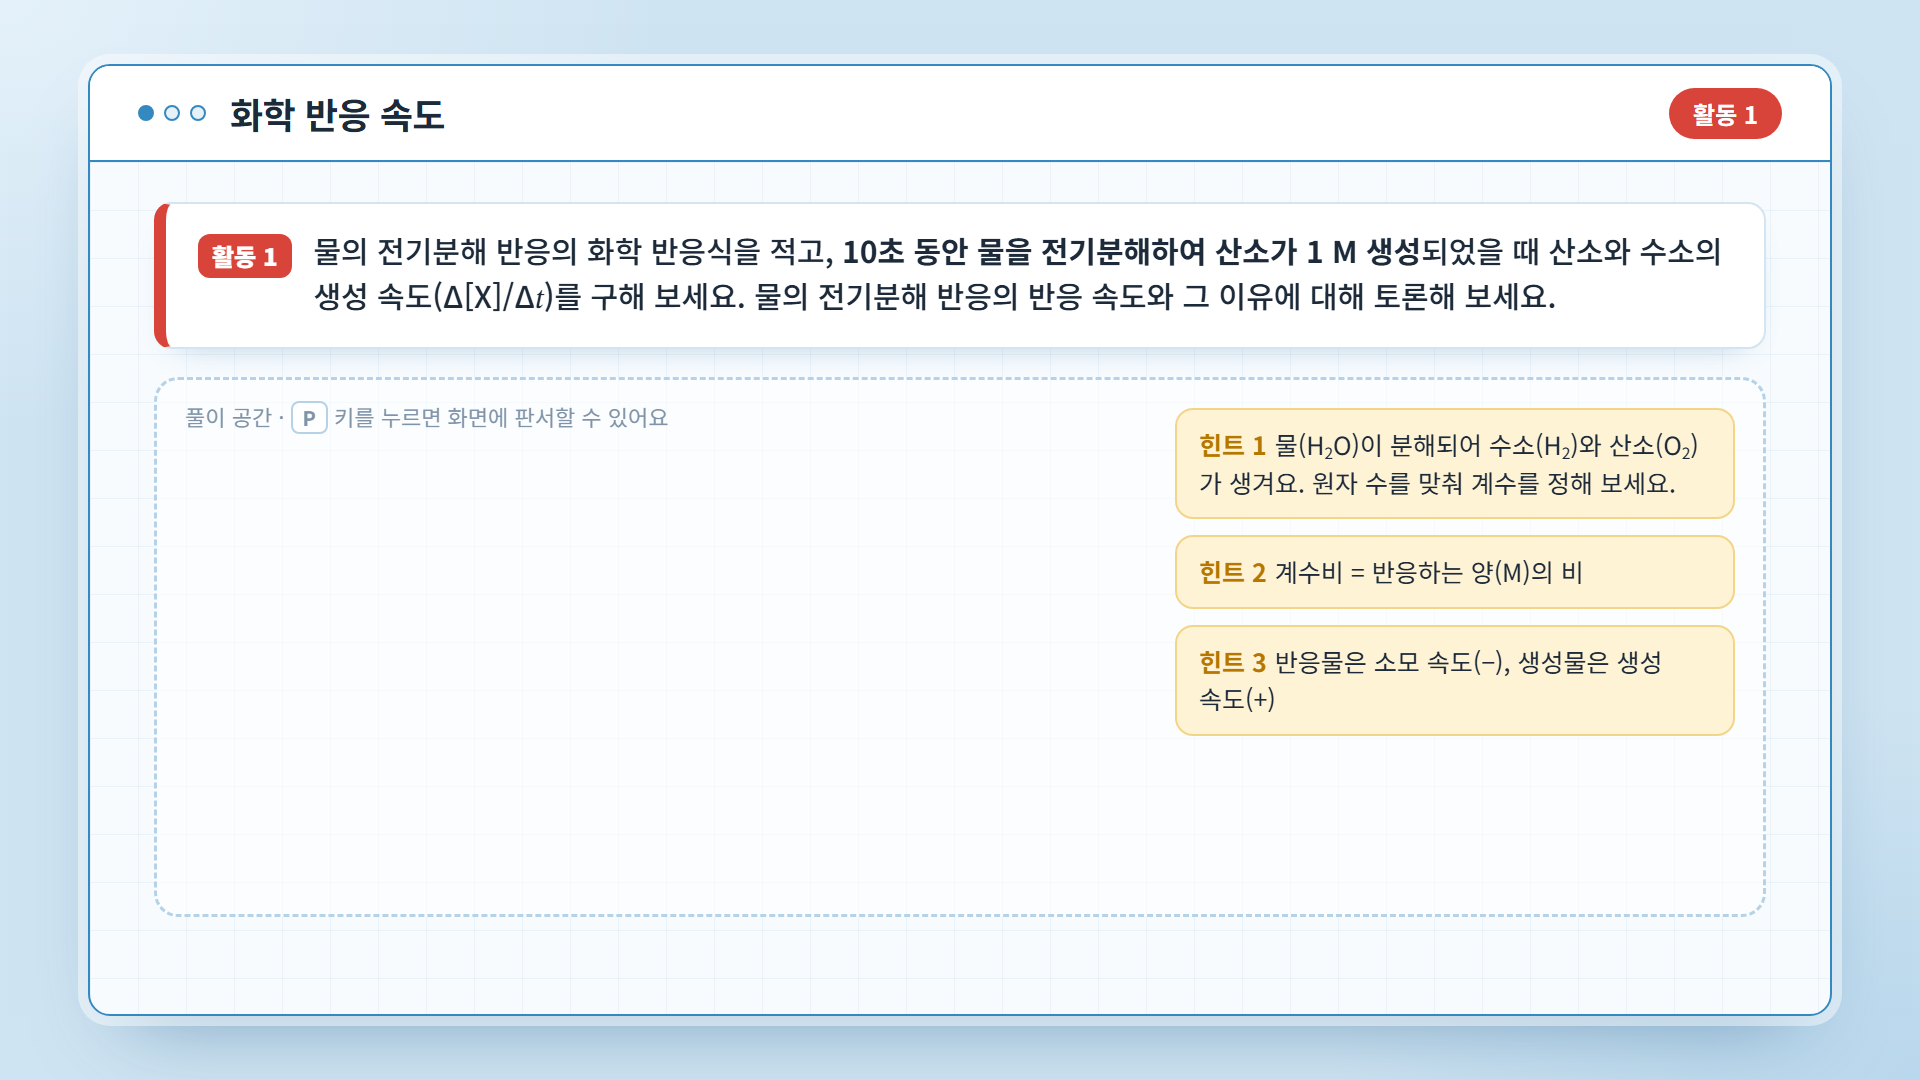
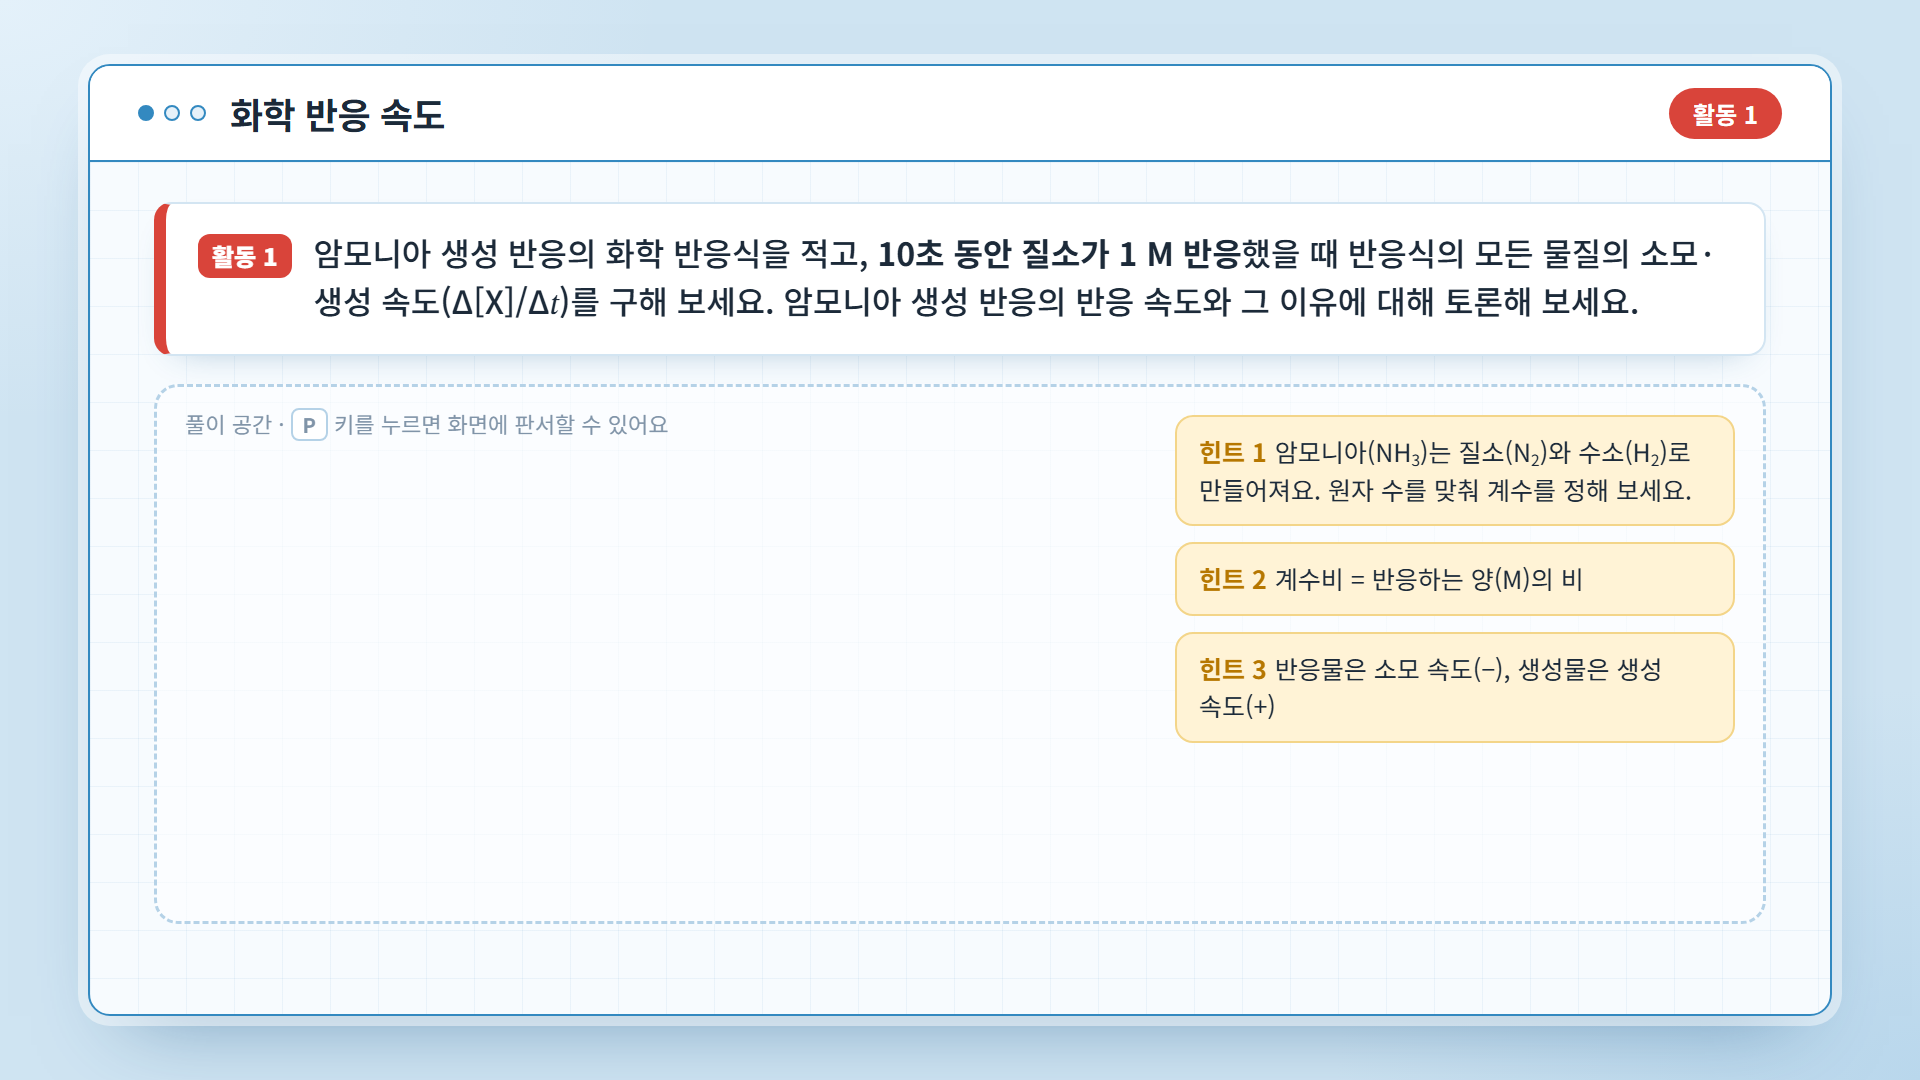
reaction-rate: 활동 1을 암모니아 생성 반응으로 복원 (토론 답 없이 v = 0.1 유지)

Changed region(s): [[0.0938, 0.2139, 0.9062, 0.7028], [0.0938, 0.825, 0.9062, 0.8556]]

diff --git a/reaction-rate-lesson/index.html b/reaction-rate-lesson/index.html
@@ -203,7 +203,6 @@
   .rrow .mini { font-size: 22px; font-weight: 700; text-align: center; border-radius: 999px; padding: 4px 0; background: #fff; }
   .ctlcard { padding: 22px 28px; display: flex; flex-direction: column; gap: 14px; }
   #act1-a .nh3-grid { margin-top: 14px; }
-  #act1-a .eqcard { font-size: 60px; padding: 20px 6px; letter-spacing: 0; }
   #act1-a .ctlcard { padding: 16px 28px; gap: 8px; }
 
   /* ---------- slide 7 ---------- */
@@ -505,11 +504,11 @@
   <div class="panel">
     <div class="head"><span class="dots"><i></i><i></i><i></i></span><h2>화학 반응 속도</h2><span class="tag act">활동 1</span></div>
     <div class="body">
-      <div class="q" style="font-size:30px"><span class="qbadge">활동 1</span><p>물의 전기분해 반응의 화학 반응식을 적고, <b>10초 동안 물을 전기분해하여 산소가 1 M 생성</b>되었을 때 산소와 수소의 생성 속도(Δ[X]/Δ<i class="m">t</i>)를 구해 보세요. 물의 전기분해 반응의 반응 속도와 그 이유에 대해 토론해 보세요.</p></div>
+      <div class="q"><span class="qbadge">활동 1</span><p>암모니아 생성 반응의 화학 반응식을 적고, <b>10초 동안 질소가 1 M 반응</b>했을 때 반응식의 모든 물질의 소모·생성 속도(Δ[X]/Δ<i class="m">t</i>)를 구해 보세요. 암모니아 생성 반응의 반응 속도와 그 이유에 대해 토론해 보세요.</p></div>
       <div class="work" style="height:540px">
         <span class="work-label">풀이 공간 · <kbd>P</kbd> 키를 누르면 화면에 판서할 수 있어요</span>
         <div class="hints">
-          <div class="hint" data-step="1 rise"><b>힌트 1</b>물(H<sub>2</sub>O)이 분해되어 수소(H<sub>2</sub>)와 산소(O<sub>2</sub>)가 생겨요. 원자 수를 맞춰 계수를 정해 보세요.</div>
+          <div class="hint" data-step="1 rise"><b>힌트 1</b>암모니아(NH<sub>3</sub>)는 질소(N<sub>2</sub>)와 수소(H<sub>2</sub>)로 만들어져요. 원자 수를 맞춰 계수를 정해 보세요.</div>
           <div class="hint" data-step="2 rise"><b>힌트 2</b>계수비 = 반응하는 양(M)의 비</div>
           <div class="hint" data-step="3 rise"><b>힌트 3</b>반응물은 소모 속도(−), 생성물은 생성 속도(+)</div>
         </div>
@@ -524,27 +523,28 @@
   <div class="panel">
     <div class="head"><span class="dots"><i></i><i></i><i></i></span><h2>화학 반응 속도 <small>— 반응 계수와의 관계</small></h2><span class="tag act">활동 1 풀이</span></div>
     <div class="body">
-      <div class="q small"><span class="qbadge">활동 1</span><p>10초 동안 물을 전기분해하여 산소가 1 M 생성되었을 때 산소와 수소의 생성 속도(Δ[X]/Δ<i class="m">t</i>)를 구해 보세요. 물의 전기분해 반응의 반응 속도와 그 이유에 대해 토론해 보세요.</p></div>
+      <div class="q small"><span class="qbadge">활동 1</span><p>10초 동안 질소가 1 M 반응했을 때 반응식의 모든 물질의 소모·생성 속도(Δ[X]/Δ<i class="m">t</i>)를 구해 보세요. 암모니아 생성 반응의 반응 속도와 그 이유에 대해 토론해 보세요.</p></div>
       <p class="note-line" style="margin-top:14px">※ 각 물질의 반응량은 계수에 비례하므로 생성·소모 속도도 계수에 비례합니다. 소모 속도(−), 생성 속도(+)</p>
       <div class="nh3-grid">
         <div>
-          <div class="card eqcard m">2H<sub>2</sub>O(<i>l</i>) → <span class="prod">2</span>H<sub>2</sub>(<i>g</i>) + O<sub>2</sub>(<i>g</i>)</div>
+          <div class="card eqcard m">N<sub>2</sub> + <span class="cons">3</span>H<sub>2</sub> → <span class="prod">2</span>NH<sub>3</sub></div>
           <div class="rrows">
-            <div class="rrow prod" data-step="1 rise"><span class="sp">O<sub>2</sub></span><span><b data-nh3="d0">+1</b> M ÷ <b data-nh3="t">10</b> s</span><span>=</span><span class="res prod" data-nh3="r0">+0.1 M/s</span><span class="mini prod">증가</span></div>
-            <div class="rrow prod" data-step="2 rise"><span class="sp">H<sub>2</sub></span><span><b data-nh3="d1">+2</b> M ÷ <b data-nh3="t">10</b> s</span><span>=</span><span class="res prod" data-nh3="r1">+0.2 M/s</span><span class="mini prod">증가</span></div>
+            <div class="rrow cons" data-step="1 rise"><span class="sp">N<sub>2</sub></span><span><b data-nh3="d0">−1</b> M ÷ <b data-nh3="t">10</b> s</span><span>=</span><span class="res cons" data-nh3="r0">−0.1 M/s</span><span class="mini cons">감소</span></div>
+            <div class="rrow cons" data-step="2 rise"><span class="sp">H<sub>2</sub></span><span><b data-nh3="d1">−3</b> M ÷ <b data-nh3="t">10</b> s</span><span>=</span><span class="res cons" data-nh3="r1">−0.3 M/s</span><span class="mini cons">감소</span></div>
+            <div class="rrow prod" data-step="3 rise"><span class="sp">NH<sub>3</sub></span><span><b data-nh3="d2">+2</b> M ÷ <b data-nh3="t">10</b> s</span><span>=</span><span class="res prod" data-nh3="r2">+0.2 M/s</span><span class="mini prod">증가</span></div>
           </div>
-          <p data-step="3 pop" style="margin-top:30px;font-size:46px;font-weight:900;text-align:center;color:var(--green)">화학 반응 속도 <i class="m">v</i> = <span data-nh3="v">0.1 M/s</span></p>
+          <p data-step="4 pop" style="margin-top:22px;font-size:44px;font-weight:900;text-align:center;color:var(--green)">화학 반응 속도 <i class="m">v</i> = <span data-nh3="v">0.1 M/s</span></p>
         </div>
         <div class="card ctlcard">
-          <div class="slider"><span>생성된 O<sub>2</sub></span><input type="range" id="nh3-dn" min="0.5" max="3" step="0.5" value="1"><output id="nh3-dn-o">1 M</output></div>
+          <div class="slider"><span>반응한 N<sub>2</sub></span><input type="range" id="nh3-dn" min="0.5" max="3" step="0.5" value="1"><output id="nh3-dn-o">1 M</output></div>
           <div class="slider"><span>반응 시간 Δ<i class="m">t</i></span><input type="range" id="nh3-dt" min="5" max="30" step="5" value="10"><output id="nh3-dt-o">10 s</output></div>
           <svg id="nh3-svg" viewBox="0 0 700 380" width="608" height="330" style="align-self:center"></svg>
-          <div class="ctrl" style="margin-top:0"><button class="btn" id="nh3-play">▶ 반응 재생</button><span style="font-size:22px;color:var(--muted);align-self:center">처음 농도: O<sub>2</sub> 0 M, H<sub>2</sub> 0 M</span></div>
+          <div class="ctrl" style="margin-top:0"><button class="btn" id="nh3-play">▶ 반응 재생</button><span style="font-size:22px;color:var(--muted);align-self:center">처음 농도: N<sub>2</sub> 4 M, H<sub>2</sub> 12 M</span></div>
         </div>
       </div>
     </div>
   </div>
-  <aside>[활동 1 풀이] 클릭할 때마다 O₂의 속도, H₂의 속도, 반응 속도 순서로 나옵니다. 토론은 학생들의 답을 먼저 들어 보세요. 오른쪽 슬라이더로 생성량과 시간을 바꾸면 왼쪽 계산이 함께 바뀌어요. 어떤 값을 넣어도 속도 비는 항상 1 : 2라는 점을 확인시키세요.</aside>
+  <aside>[활동 1 풀이] 클릭할 때마다 N₂, H₂, NH₃의 속도, 반응 속도 순서로 나옵니다. 토론은 학생들의 답을 먼저 들어 보세요. 오른쪽 슬라이더로 반응량과 시간을 바꾸면 왼쪽 계산이 함께 바뀌어요. 어떤 값을 넣어도 속도 비는 항상 1 : 3 : 2라는 점을 확인시키세요.</aside>
 </section>
 
 <!-- 7 -->
@@ -601,8 +601,9 @@
           <p class="conv-t">활동 1, 2의 결과 정리하기</p>
           <div class="conv-grid" style="grid-template-columns:140px 120px 190px 130px">
             <span class="ch">물질</span><span class="ch">소모·생성</span><span class="ch" data-step="1">÷ 계수</span><span class="ch" data-step="2">부호 → (+)</span>
-            <b><small style="font-size:20px;color:var(--muted)">활동1</small> O<sub>2</sub></b><span class="v prod">+0.1</span><span class="v prod" data-step="1 pop">÷ 1 = +0.1</span><span class="v ok" data-step="2 pop">0.1</span>
-            <b><small style="font-size:20px;color:var(--muted)">활동1</small> H<sub>2</sub></b><span class="v prod">+0.2</span><span class="v prod" data-step="1 pop">÷ 2 = +0.1</span><span class="v ok" data-step="2 pop">0.1</span>
+            <b><small style="font-size:20px;color:var(--muted)">활동1</small> N<sub>2</sub></b><span class="v cons">−0.1</span><span class="v cons" data-step="1 pop">÷ 1 = −0.1</span><span class="v ok" data-step="2 pop">0.1</span>
+            <b><small style="font-size:20px;color:var(--muted)">활동1</small> H<sub>2</sub></b><span class="v cons">−0.3</span><span class="v cons" data-step="1 pop">÷ 3 = −0.1</span><span class="v ok" data-step="2 pop">0.1</span>
+            <b><small style="font-size:20px;color:var(--muted)">활동1</small> NH<sub>3</sub></b><span class="v prod">+0.2</span><span class="v prod" data-step="1 pop">÷ 2 = +0.1</span><span class="v ok" data-step="2 pop">0.1</span>
             <b><small style="font-size:20px;color:var(--muted)">활동2</small> O<sub>2</sub></b><span class="v cons">−0.5</span><span class="v cons" data-step="1 pop">÷ 5 = −0.1</span><span class="v ok" data-step="2 pop">0.1</span>
             <b><small style="font-size:20px;color:var(--muted)">활동2</small> CO<sub>2</sub></b><span class="v prod">+0.3</span><span class="v prod" data-step="1 pop">÷ 3 = +0.1</span><span class="v ok" data-step="2 pop">0.1</span>
           </div>
@@ -1298,9 +1299,9 @@
 
   /* ================= 5. ammonia: rates ∝ coefficients ================= */
   (function () {
-    var svg = $('nh3-svg'), C0 = [0, 0], coef = [1, 2], names = ['O2', 'H2'];
-    var colors = ['#D9443A', '#D9443A'], soft = ['#FCE8E6', '#FCE8E6'];
-    var BASE = 300, PXM = 36, XS = [230, 490], BW = 120; // 36 px per M
+    var svg = $('nh3-svg'), C0 = [4, 12, 0], coef = [-1, -3, 2], names = ['N2', 'H2', 'NH3'];
+    var colors = ['#2459C9', '#2459C9', '#D9443A'], soft = ['#E4ECFB', '#E4ECFB', '#FCE8E6'];
+    var BASE = 300, PXM = 20, XS = [130, 350, 570], BW = 120; // 20 px per M
     svgEl('line', { x1: 40, x2: 680, y1: BASE, y2: BASE, stroke: '#1C2A39', 'stroke-width': 3 }, svg);
     var timer = svgText(svg, 30, 36, '', 'lbl', 'start', { fill: '#8094A8', 'font-size': 24 });
     var bars = XS.map(function (x, i) {

diff --git a/reaction-rate-lesson/README.md b/reaction-rate-lesson/README.md
@@ -27,7 +27,7 @@
 | 2 배경지식 | 2H₂ + O₂ → 2H₂O 원자 재배열 애니메이션, 달리기로 보는 "속도 = 변화량 ÷ 시간" |
 | 3 Δ로 나타내기 | 사탕 개수로 보는 Δ(+4개 · −4개), Δ[X]/Δt 뜻과 단위(M/s), 오늘의 핵심 목표, A → B의 v = Δ[B]/Δt = −Δ[A]/Δt (클릭마다 하나씩) |
 | 4 반응 속도 | A → B 입자 시뮬레이션 + 실시간 농도 그래프, 최근 10초 소모·생성 속도 계산 |
-| 6 활동 1 풀이 | 생성량·시간 슬라이더로 바뀌는 O₂·H₂ 속도와 농도 막대 |
+| 6 활동 1 풀이 | 반응량·시간 슬라이더로 바뀌는 N₂·H₂·NH₃ 속도와 농도 막대 |
 | 10 그래프 해석 | t₁·t₂를 끌어 평균(두 점 직선)·순간(접선) 반응 속도 비교, "Δt → 0" 애니메이션 |
 | 12 활동 3 풀이 | 클릭마다 두 점 직선(평균) → 20 s 접선 → 40 s 접선이 나타남 |
 | 13 심화 | 입자 충돌 시뮬레이션(2A → 3B): 시간이 갈수록 충돌·반응 횟수가 줄어드는 모습, 처음 입자 수 조절 |
